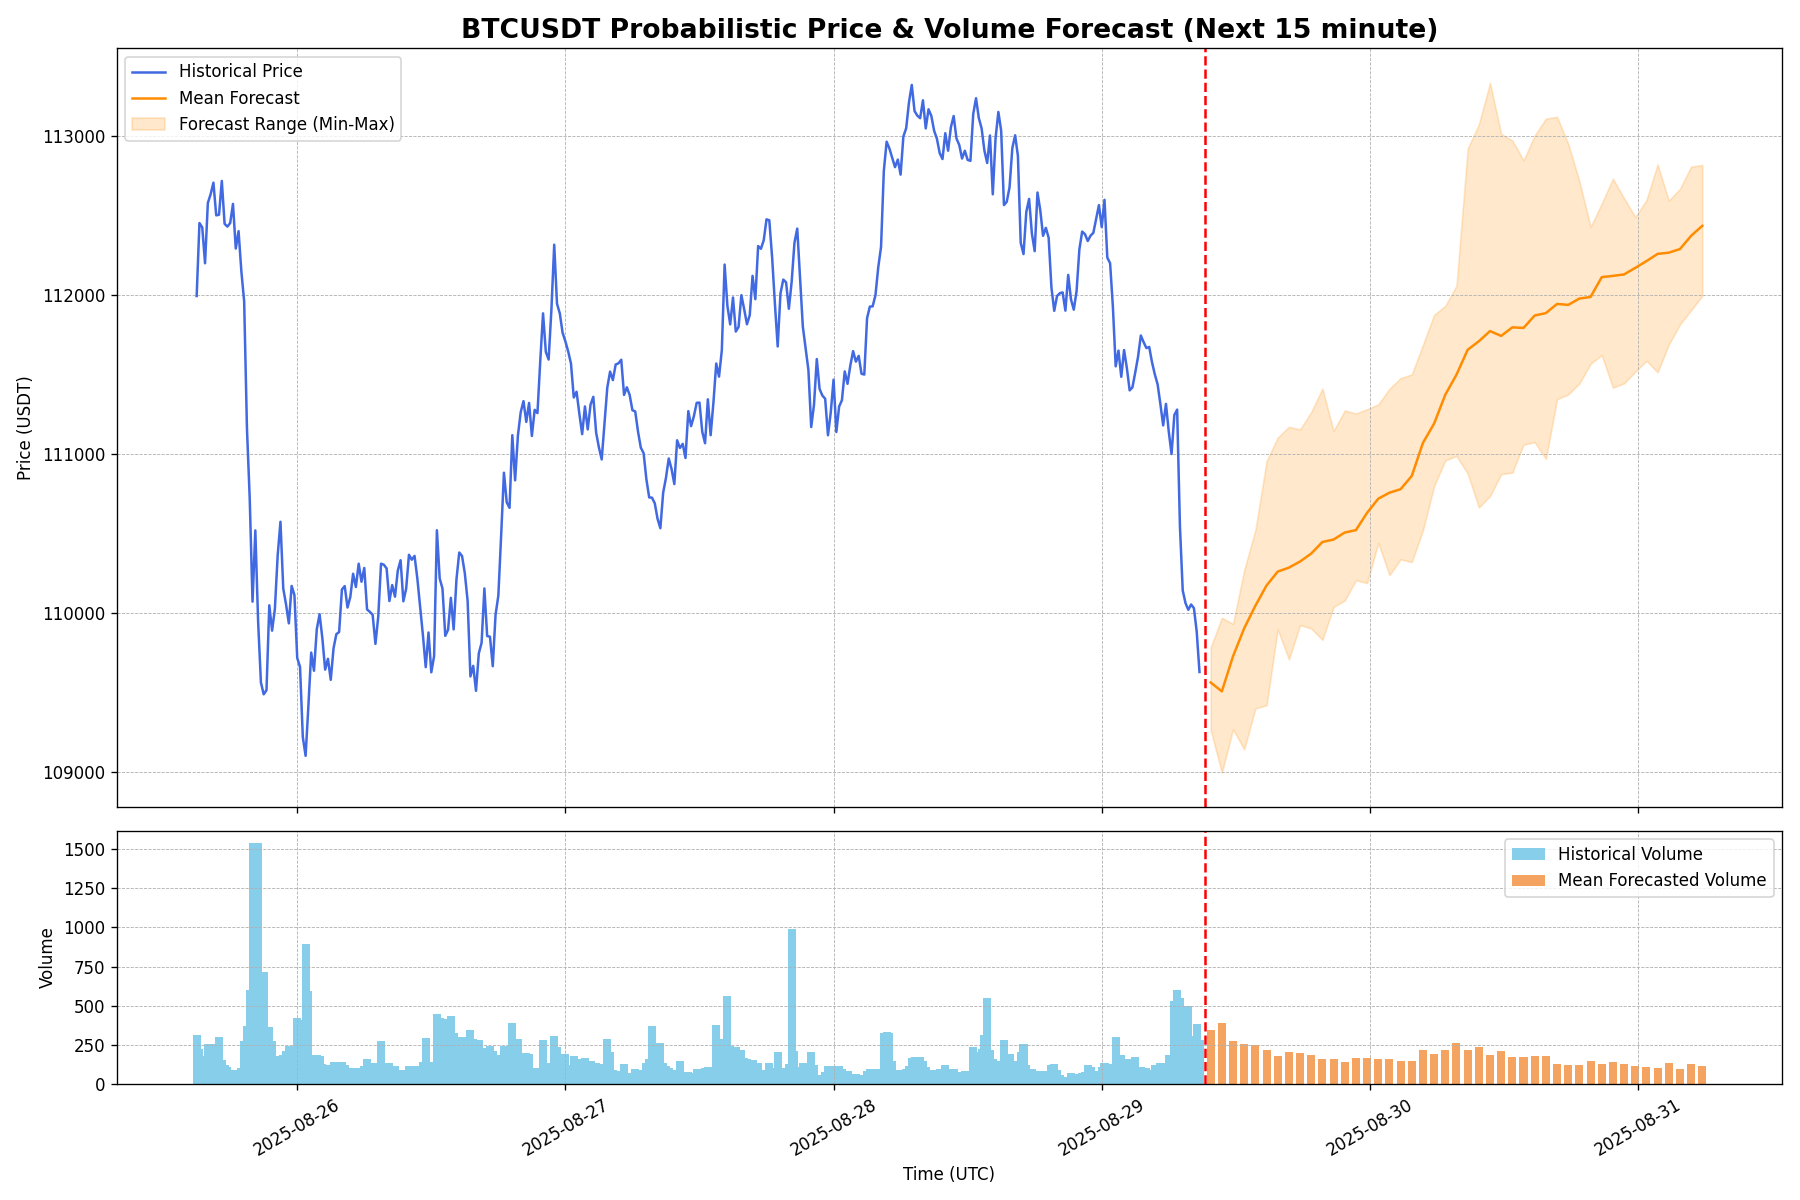
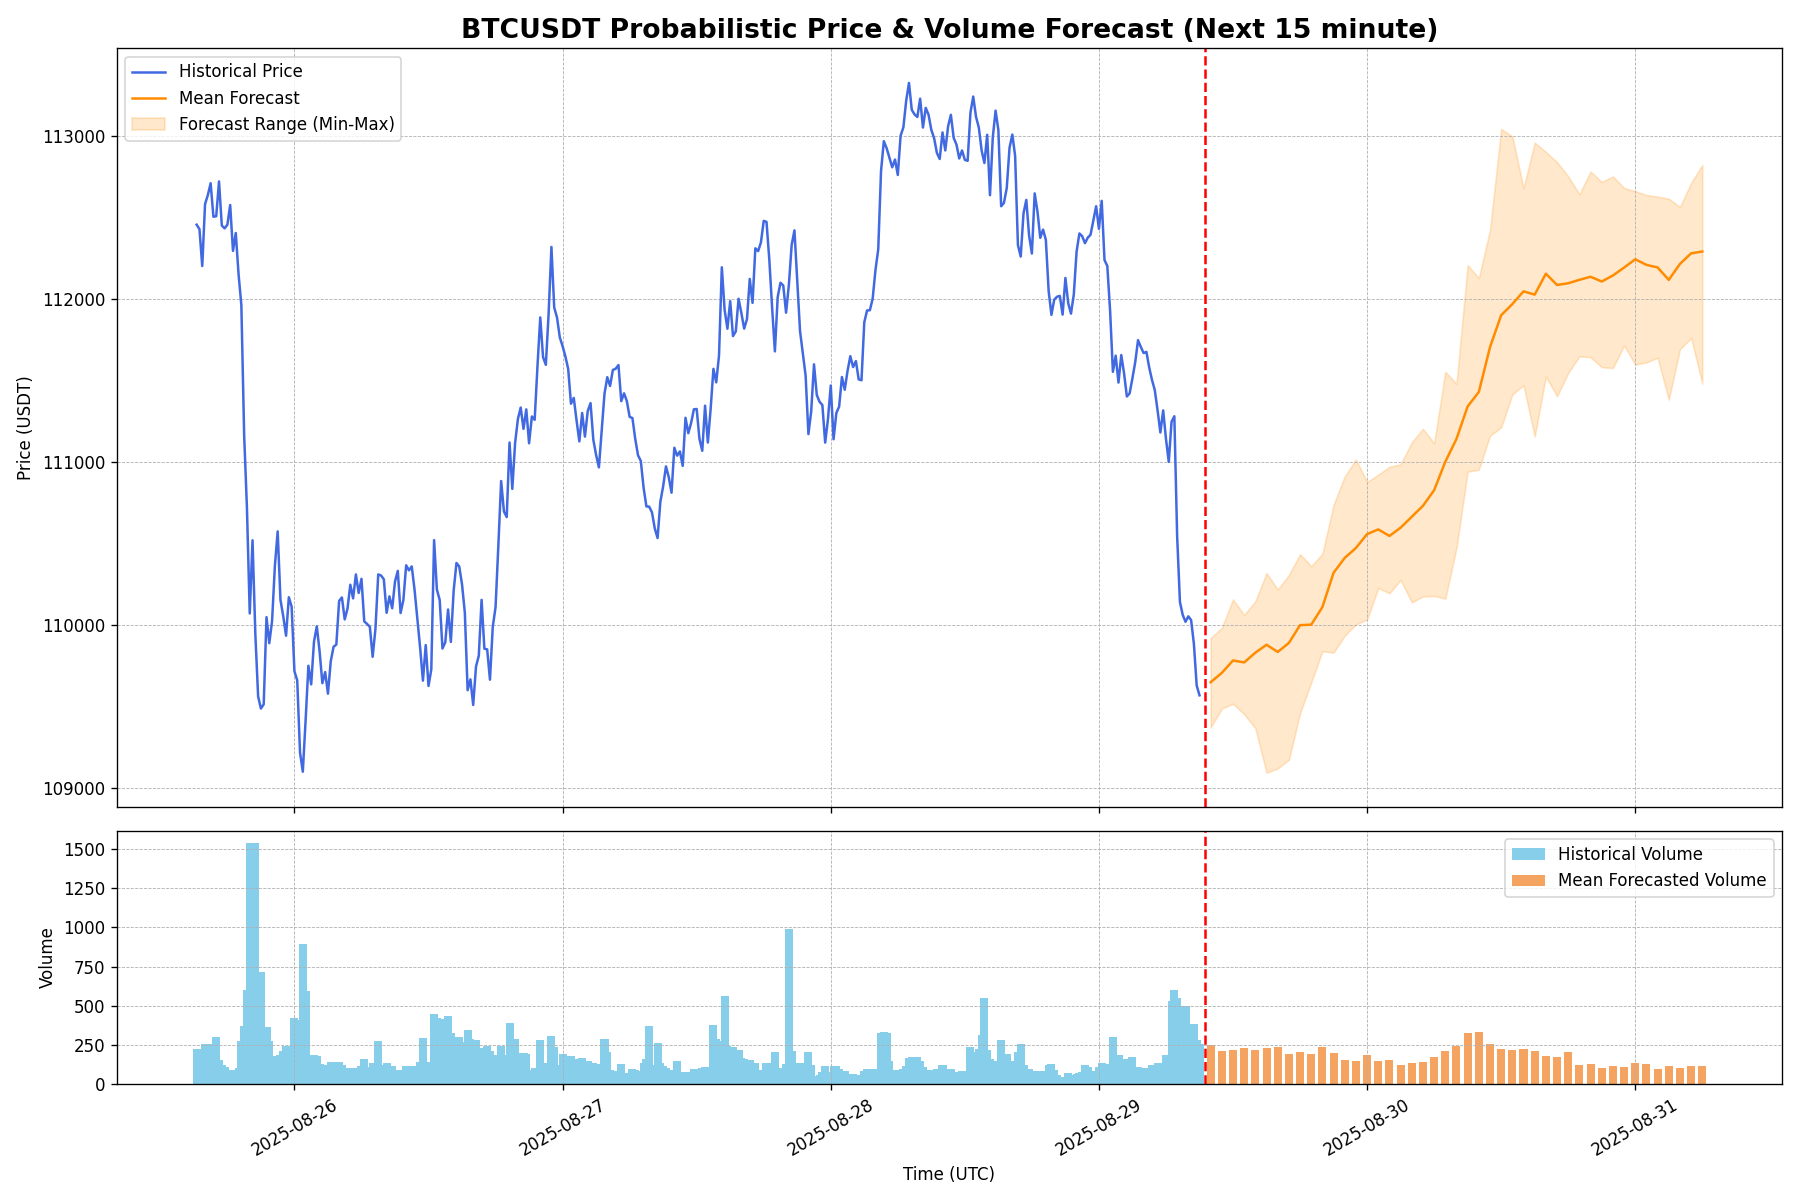
Auto-update forecast for 2025-08-29 09:17 UTC

diff --git a/btc_index.html b/btc_index.html
@@ -24,7 +24,7 @@
         <section id="live-dashboard">
             <h2>实时 BTC/USDT 预测仪表盘</h2>
             <div class="metadata">
-                <span>Last Updated: <strong id="update-time">2025-08-29 17:02:05</strong></span>
+                <span>Last Updated: <strong id="update-time">2025-08-29 17:17:35</strong></span>
                 <span>Data Source: Binance | Interval: 15minute </span>
             </div>
 
@@ -36,7 +36,7 @@
                 </div>
                 <div class="metric-card">
                     <h3>波动率放大（未来 24 小时）</h3>
-                    <p class="metric-value" id="vol-amp-prob">30.0%</p>
+                    <p class="metric-value" id="vol-amp-prob">40.0%</p>
                     <div class="metric-desc">未来 24 小时预测波动率超过近期历史波动率的概率。</div>
                 </div>
             </div>

diff --git a/update_predictions.py b/update_predictions.py
@@ -11,27 +11,30 @@ import numpy as np
 import pandas as pd
 import torch
 from binance.client import Client
+import argparse
 
 from model import KronosTokenizer, Kronos, KronosPredictor
 
 # --- Configuration ---
 Config = {
     "REPO_PATH": Path(__file__).parent.resolve(),
-    "MODEL_PATH": "../Kronos_model",
-    "SYMBOL": 'BTCUSDT',
-    "INTERVAL": '1h',
+    "MODEL_PATH": "/Users/longquan/Documents/git/py/",
+    "SYMBOL": 'x',
+    "INTERVAL": 'x',
     "HIST_POINTS": 360,
-    "PRED_HORIZON": 24,
-    "N_PREDICTIONS": 30,
-    "VOL_WINDOW": 24,
+    "PRED_HORIZON": 3 * 15,
+    "N_PREDICTIONS": 10,
+    "VOL_WINDOW": 6*15,
 }
 
 
 def load_model():
     """Loads the Kronos model and tokenizer."""
     print("Loading Kronos model...")
-    tokenizer = KronosTokenizer.from_pretrained("NeoQuasar/Kronos-Tokenizer-base", cache_dir=Config["MODEL_PATH"])
-    model = Kronos.from_pretrained("NeoQuasar/Kronos-small", cache_dir=Config["MODEL_PATH"])
+    tokenizer = KronosTokenizer.from_pretrained(Config["MODEL_PATH"] + "NeoQuasar/Kronos-Tokenizer-base")
+    print("success_load_tokenizer")
+    model = Kronos.from_pretrained(Config["MODEL_PATH"] + "NeoQuasar/Kronos-base")
+    print("success_load_model")
     tokenizer.eval()
     model.eval()
     predictor = KronosPredictor(model, tokenizer, device="cpu", max_context=512)
@@ -46,7 +49,7 @@ def make_prediction(df, predictor):
     new_timestamps_index = pd.date_range(
         start=start_new_range,
         periods=Config["PRED_HORIZON"],
-        freq='H'
+        freq='h'
     )
     y_timestamp = pd.Series(new_timestamps_index, name='y_timestamp')
     x_timestamp = df['timestamps']
@@ -75,9 +78,8 @@ def make_prediction(df, predictor):
     return close_preds_main, volume_preds_main, close_preds_volatility
 
 
-def fetch_binance_data():
+def fetch_binance_data(symbol, interval):
     """Fetches K-line data from the Binance public API."""
-    symbol, interval = Config["SYMBOL"], Config["INTERVAL"]
     limit = Config["HIST_POINTS"] + Config["VOL_WINDOW"]
 
     print(f"Fetching {limit} bars of {symbol} {interval} data from Binance...")
@@ -146,7 +148,7 @@ def create_plot(hist_df, close_preds_df, volume_preds_df):
     mean_preds = close_preds_df.mean(axis=1)
     ax1.plot(pred_time, mean_preds, color='darkorange', linestyle='-', label='Mean Forecast')
     ax1.fill_between(pred_time, close_preds_df.min(axis=1), close_preds_df.max(axis=1), color='darkorange', alpha=0.2, label='Forecast Range (Min-Max)')
-    ax1.set_title(f'{Config["SYMBOL"]} Probabilistic Price & Volume Forecast (Next {Config["PRED_HORIZON"]} Hours)', fontsize=16, weight='bold')
+    ax1.set_title(f'{Config["SYMBOL"]} Probabilistic Price & Volume Forecast (Next 15 minute)', fontsize=16, weight='bold')
     ax1.set_ylabel('Price (USDT)')
     ax1.legend()
     ax1.grid(True, which='both', linestyle='--', linewidth=0.5)
@@ -164,7 +166,7 @@ def create_plot(hist_df, close_preds_df, volume_preds_df):
         ax.tick_params(axis='x', rotation=30)
 
     fig.tight_layout()
-    chart_path = Config["REPO_PATH"] / 'prediction_chart.png'
+    chart_path = Config["REPO_PATH"] / 'btc_prediction_chart.png'
     fig.savefig(chart_path, dpi=120)
     plt.close(fig)
     print(f"Chart saved to: {chart_path}")
@@ -172,12 +174,14 @@ def create_plot(hist_df, close_preds_df, volume_preds_df):
 
 def update_html(upside_prob, vol_amp_prob):
     """
-    Updates the index.html file with the latest metrics and timestamp.
+    Updates the btc_index.html file with the latest metrics and timestamp.
     This version uses a more robust lambda function for replacement to avoid formatting errors.
     """
-    print("Updating index.html...")
-    html_path = Config["REPO_PATH"] / 'index.html'
-    now_utc_str = datetime.now(timezone.utc).strftime('%Y-%m-%d %H:%M:%S')
+    print("Updating btc_index.html...")
+    html_path = Config["REPO_PATH"] / 'btc_index.html'
+    now_beijing = datetime.now(timezone.utc) + timedelta(hours=8)
+    now_utc_str = now_beijing.strftime('%Y-%m-%d %H:%M:%S')
+    #now_utc_str = datetime.now(timezone.utc).strftime('%Y-%m-%d %H:%M:%S')
     upside_prob_str = f'{upside_prob:.1%}'
     vol_amp_prob_str = f'{vol_amp_prob:.1%}'
 
@@ -206,29 +210,16 @@ def update_html(upside_prob, vol_amp_prob):
     print("HTML file updated successfully.")
 
 
-def git_commit_and_push(commit_message):
-    """Adds, commits, and pushes specified files to the Git repository."""
-    print("Performing Git operations...")
-    try:
-        os.chdir(Config["REPO_PATH"])
-        subprocess.run(['git', 'add', 'prediction_chart.png', 'index.html'], check=True, capture_output=True, text=True)
-        commit_result = subprocess.run(['git', 'commit', '-m', commit_message], check=True, capture_output=True, text=True)
-        print(commit_result.stdout)
-        push_result = subprocess.run(['git', 'push'], check=True, capture_output=True, text=True)
-        print(push_result.stdout)
-        print("Git push successful.")
-    except subprocess.CalledProcessError as e:
-        output = e.stdout if e.stdout else e.stderr
-        if "nothing to commit" in output or "Your branch is up to date" in output:
-            print("No new changes to commit or push.")
-        else:
-            print(f"A Git error occurred:\n--- STDOUT ---\n{e.stdout}\n--- STDERR ---\n{e.stderr}")
 
-
-def main_task(model):
+def main_task(model, symbol, interval):
     """Executes one full update cycle."""
     print("\n" + "=" * 60 + f"\nStarting update task at {datetime.now(timezone.utc)}\n" + "=" * 60)
-    df_full = fetch_binance_data()
+
+    # Update Config with command line arguments if provided
+    Config["SYMBOL"] = symbol
+    Config["INTERVAL"] = interval
+
+    df_full = fetch_binance_data(symbol, interval)
     df_for_model = df_full.iloc[:-1]
 
     close_preds, volume_preds, v_close_preds = make_prediction(df_for_model, model)
@@ -259,7 +250,7 @@ def run_scheduler(model):
     """A continuous scheduler that runs the main task hourly."""
     while True:
         now = datetime.now(timezone.utc)
-        next_run_time = (now + timedelta(hours=1)).replace(minute=0, second=5, microsecond=0)
+        next_run_time = (now + timedelta(minutes=5)).replace(minute=0, second=5, microsecond=0)
         sleep_seconds = (next_run_time - now).total_seconds()
 
         if sleep_seconds > 0:
@@ -279,10 +270,44 @@ def run_scheduler(model):
             time.sleep(300)
 
 
+
+def git_commit_and_push(commit_message):
+    """Adds, commits, and pushes specified files to the Git repository."""
+    print("Performing Git operations...")
+    try:
+        os.chdir(Config["REPO_PATH"])
+        subprocess.run(['git', 'add', 'btc_prediction_chart.png', 'btc_index.html','update_predictions.py','run_prediction.sh'], check=True, capture_output=True, text=True)
+        commit_result = subprocess.run(['git', 'commit', '-m', commit_message], check=True, capture_output=True, text=True)
+        print(commit_result.stdout)
+        push_result = subprocess.run(['git', 'push'], check=True, capture_output=True, text=True)
+        print(push_result.stdout)
+        print("Git push successful.")
+    except subprocess.CalledProcessError as e:
+        output = e.stdout if e.stdout else e.stderr
+        if "nothing to commit" in output or "Your branch is up to date" in output:
+            print("No new changes to commit or push.")
+        else:
+            print(f"A Git error occurred:\n--- STDOUT ---\n{e.stdout}\n--- STDERR ---\n{e.stderr}")
+
+def parse_args():
+    """Parse command line arguments."""
+    parser = argparse.ArgumentParser(description='Update predictions with custom symbol and interval')
+    parser.add_argument('--symbol', type=str ,default='BTCUSDT', help='Trading symbol (e.g., BTCUSDT, ETHUSDT)')
+    parser.add_argument('--interval', type=str ,default='15m', help='Kline interval (e.g., 15m, 1h, 4h)')
+    return parser.parse_args()
+
+
+
 if __name__ == '__main__':
-    model_path = Path(Config["MODEL_PATH"])
-    model_path.mkdir(parents=True, exist_ok=True)
+    #model_path = Path(Config["MODEL_PATH"])
+    #model_path.mkdir(parents=True, exist_ok=True)
+
+    #git_commit_and_push('test-commit')
+    args = parse_args()
+    # Use command line arguments if provided, otherwise use defaults
+    symbol = args.symbol
+    interval = args.interval
 
     loaded_model = load_model()
-    main_task(loaded_model)  # Run once on startup
+    main_task(loaded_model, symbol, interval)  # Run once on startu
     run_scheduler(loaded_model)  # Start the schedule
